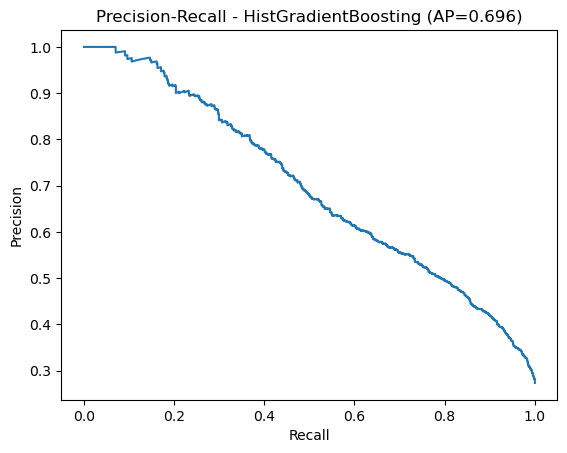
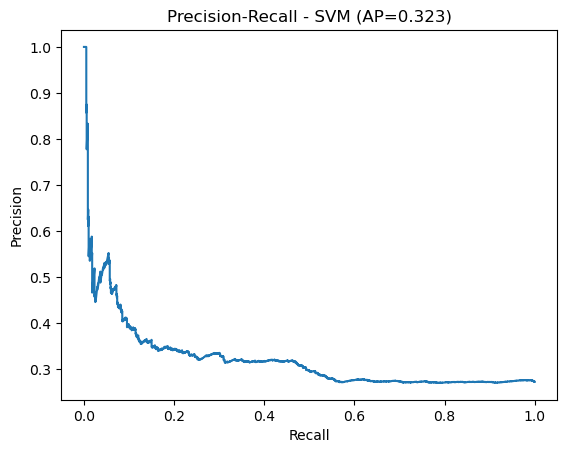
se actualizan modelos SVM y gradientboosting

diff --git a/src/fraud_model_meli.py b/src/fraud_model_meli.py
@@ -14,6 +14,9 @@ from sklearn.metrics import (
 from sklearn.linear_model import LogisticRegression
 from sklearn.ensemble import HistGradientBoostingClassifier
 import matplotlib.pyplot as plt
+from sklearn.ensemble import RandomForestClassifier, GradientBoostingClassifier
+from sklearn.svm import SVC
+from sklearn.metrics import roc_curve, auc
 
 CSV_PATH = "data/fraud_dataset.csv"
 REPORTS_DIR = "reports"
@@ -66,7 +69,12 @@ def main():
     # 4) Modelos
     models = {
         "LogisticRegression": LogisticRegression(max_iter=1000, class_weight="balanced"),
-        "HistGradientBoosting": HistGradientBoostingClassifier(random_state=42)
+        "HistGradientBoosting": HistGradientBoostingClassifier(random_state=42), 
+    "RandomForest": RandomForestClassifier(
+        n_estimators=200, max_depth=None, random_state=42, n_jobs=-1, class_weight="balanced_subsample"
+    ),
+    "GradientBoosting": GradientBoostingClassifier(random_state=42),
+    "SVM": SVC(kernel="rbf", probability=True, class_weight="balanced", random_state=42),
     }
 
     rows = []

diff --git a/README.md b/README.md
@@ -22,7 +22,7 @@ Se parte de los siguientes supuestos
 Clonar el repositorio 
 ```bash
 git clone https://github.com/vquirozg/Data-Scientist-Technical-Challenge.git
-cd fraude-prevencion-meli
+cd fraud_model_meli
 pip install -r requirements.txt
 
 #uso python src/fraud_model_meli.py
